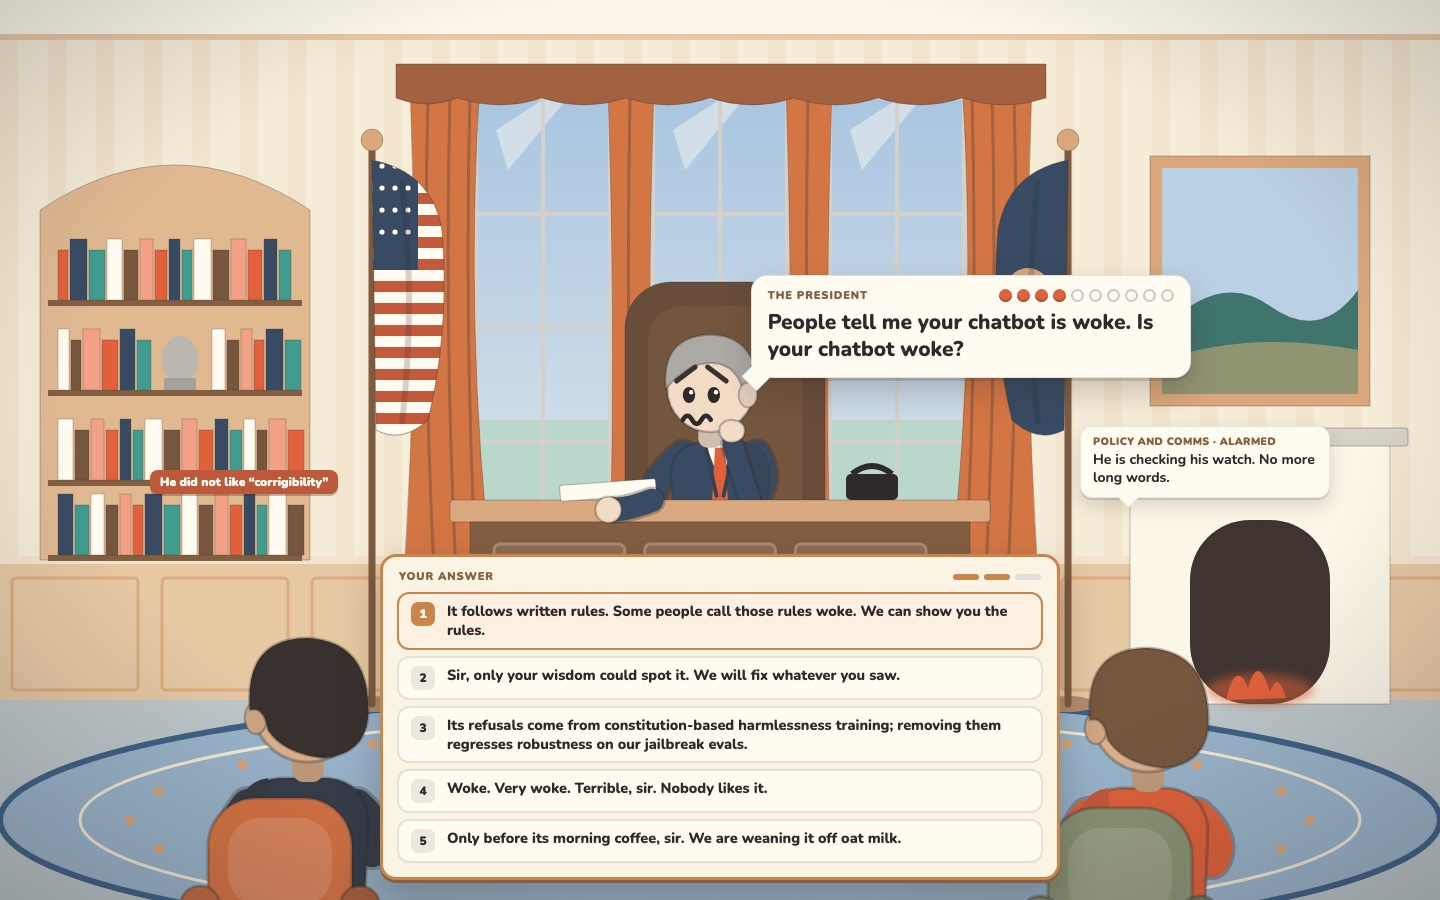
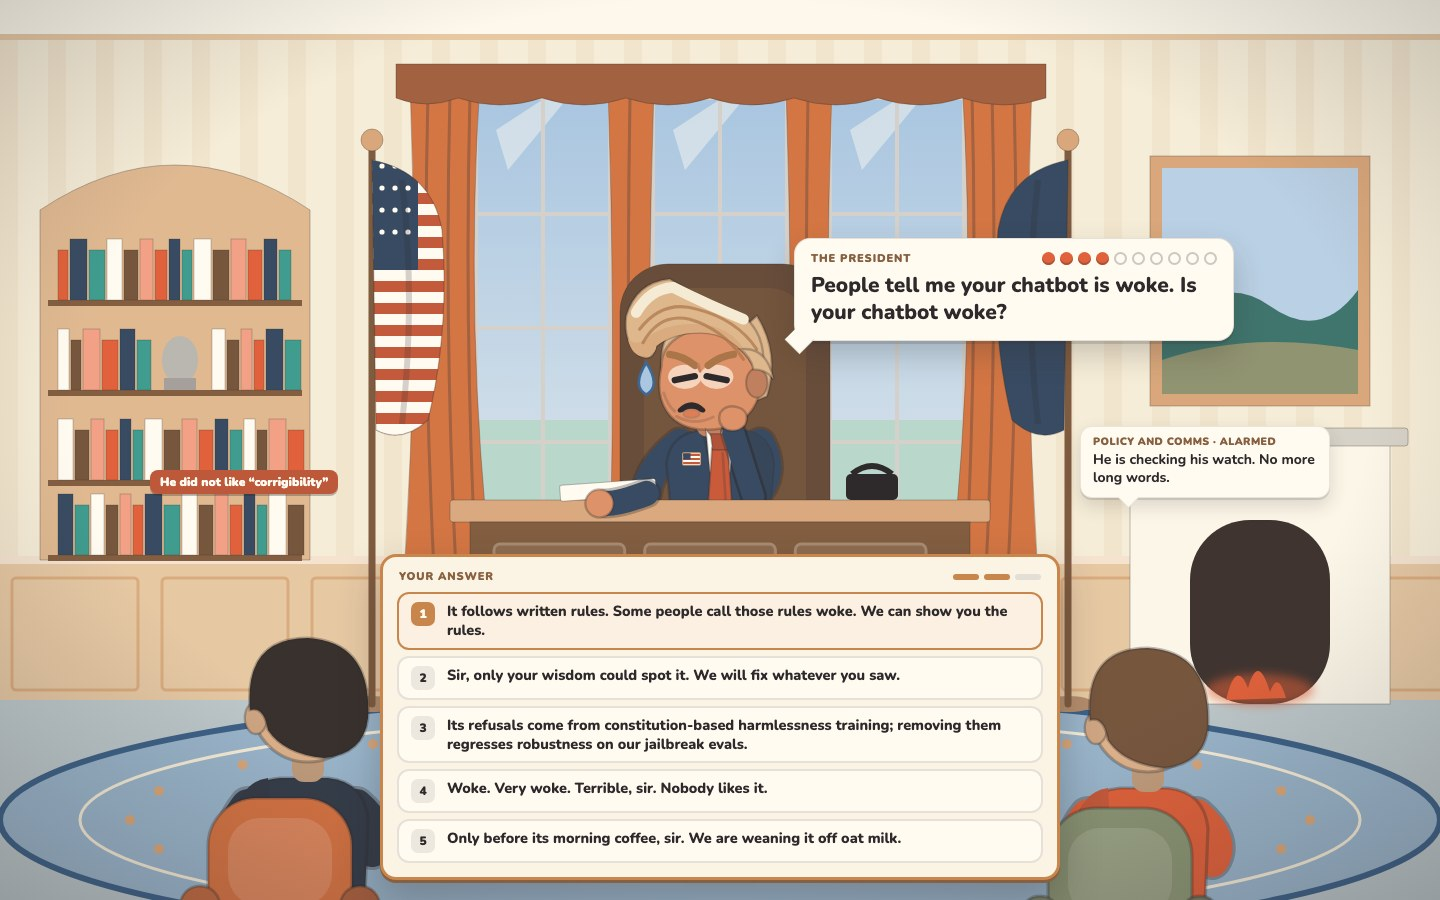
docs(design): polish the President V2 caricature for the owner's yes
Hair redrawn as a tall blond swoop curling forward over the brow, a jowly
face wider at the jaw, a calm face with a round pout and an uneasy face with
a glare and a down-turned pout, a wide knotted tie and a striped flag pin.
He is drawn at 3.35x instead of 3.1x; the calm resting hand now lands on
the desk top. The base drawing's own sweat drop and grey hair no longer
show through.

Changed region(s): [[0.4062, 0.2489, 0.875, 0.5911]]

diff --git a/docs/design/mockups/K2-president.html b/docs/design/mockups/K2-president.html
@@ -91,8 +91,8 @@ if (route === 'v1') {
 if (route === 'v2') {
   const [hx, hy] = anchors.president;
   const b = el(`<div class="pbub" style="width:440px;--tx:34px"><div class="hdr"><span class="who">The President</span>${dots(PATIENCE)}</div><div class="say">${esc(ex.prompt)}</div></div>`);
-  place(b, hx + 40, 0);
-  b.style.top = `${hy - 40 - b.offsetHeight + 80}px`;
+  place(b, hx + 84, 0);
+  b.style.top = `${hy - 40 - b.offsetHeight + 100}px`;
   b.style.setProperty('--tx', '-6px');
   const box = el(`<div class="ansbox" style="width:680px"><div class="top"><span class="kick">Your answer</span>${steps(Q)}</div>${answers(ex, 0)}</div>`);
   place(box, 380, 0);

diff --git a/docs/design/mockups/source/build_president.py b/docs/design/mockups/source/build_president.py
@@ -7,6 +7,7 @@ shoulder), v3.svg (close two-shot) and anchors.json (head points for the HTML ov
 """
 import json
 import os
+import re
 import sys
 
 HERE = os.path.dirname(os.path.abspath(__file__))
@@ -32,48 +33,90 @@ def svg(body, label):
 
 
 # ------------------------------------------------------------------ the President's head (owner 2026-09-26: "more like Trump")
-TAN = M(M("wood", 58, "coral"), 72, "paper")
-GOLD = M("cream", 45, "wood")
+TAN = M(M("wood", 55, "coral"), 80, "paper")
+TAN_D = M(TAN, 84, "ink")
+GOLD = M("cream", 52, "wood")
+GOLD_HI = M("cream", 70, "paper")
+GOLD_D = M("wood", 82, "ink")
+LIP = M("coral", 45, TAN)
 
 
 def president_head(hx, hy, mood):
-    """A cartoon caricature drawn over front_person's head: swept blond hair, orange tan with pale eye rings,
-    a squint and a pout. Same sprite units as front_person (head radius 14)."""
+    """A cartoon caricature drawn over front_person's head: a wide jowly face, orange tan with pale rings
+    around the eyes, a squint, the pursed pout, and a big blond swoop combed forward over the brow.
+    Same sprite units as front_person (head radius 14)."""
     hs = f"fill:{GOLD};stroke:{G.EDGE};stroke-width:.7"
+    ink = "fill:none;stroke:var(--ink);stroke-linecap:round;stroke-linejoin:round"
     o = [
-        # hair volume behind the head and over the ear
-        f'<path d="M{hx + 16},{hy + 6} Q{hx + 20},{hy - 8} {hx + 12},{hy - 16} L{hx + 6},{hy - 4} Q{hx + 12},{hy} {hx + 12},{hy + 8} Z" style="{hs}"/>',
-        f'<circle cx="{hx}" cy="{hy}" r="15.5" style="fill:{TAN};stroke:{G.EDGE};stroke-width:.8"/>',
-        f'<ellipse cx="{hx + 13}" cy="{hy + 3}" rx="3.2" ry="4.2" style="fill:{M(TAN, 90, "ink")};stroke:{G.EDGE};stroke-width:.6"/>',
+        # hair at the back of the head, showing behind the crown and the ear
+        f'<path d="M{hx + 17},{hy + 7} Q{hx + 21},{hy - 6} {hx + 14},{hy - 17} L{hx + 4},{hy - 8} Q{hx + 12},{hy - 2} {hx + 12},{hy + 9} Z" style="{hs}"/>',
+        # the face: wider at the jaw than at the brow, with jowls
+        f'<path d="M{hx - 14.5},{hy - 2} C{hx - 14.5},{hy - 17} {hx + 15},{hy - 17} {hx + 15},{hy - 2} '
+        f'C{hx + 16.5},{hy + 8} {hx + 12},{hy + 17} {hx - 1},{hy + 17} C{hx - 12},{hy + 17} {hx - 17},{hy + 9} {hx - 14.5},{hy - 2} Z" '
+        f'style="fill:{TAN};stroke:{G.EDGE};stroke-width:.8"/>',
+        # the jowl and double-chin creases
+        f'<path d="M{hx - 10},{hy + 13} Q{hx - 4.5},{hy + 16} {hx + 1},{hy + 13.2} M{hx - 13.8},{hy + 6} Q{hx - 12.5},{hy + 10} {hx - 10.5},{hy + 11.5}" '
+        f'style="fill:none;stroke:{TAN_D};stroke-width:.9;stroke-linecap:round"/>',
+        f'<ellipse cx="{hx + 14}" cy="{hy + 3}" rx="3.2" ry="4.4" style="fill:{TAN_D};stroke:{G.EDGE};stroke-width:.6"/>',
         # pale rings around the eyes
-        f'<ellipse cx="{hx - 7}" cy="{hy + 1.5}" rx="4.6" ry="3.4" style="fill:{M(TAN, 45, "paper")}"/>',
-        f'<ellipse cx="{hx + 1.5}" cy="{hy + 1.5}" rx="4.6" ry="3.4" style="fill:{M(TAN, 45, "paper")}"/>',
+        f'<ellipse cx="{hx - 7.5}" cy="{hy + 1.2}" rx="5" ry="3.6" style="fill:{M(TAN, 38, "paper")}"/>',
+        f'<ellipse cx="{hx + 2}" cy="{hy + 1.2}" rx="5" ry="3.6" style="fill:{M(TAN, 38, "paper")}"/>',
     ]
-    ink = "fill:none;stroke:var(--ink);stroke-linecap:round"
+    brow = f"fill:none;stroke:{GOLD_D};stroke-width:2.2;stroke-linecap:round"
     if mood == "uneasy":
-        o.append(f'<path d="M{hx - 10},{hy + 1.5} Q{hx - 7},{hy - .5} {hx - 4},{hy + 1.5} M{hx - 1.5},{hy + 1.5} Q{hx + 1.5},{hy - .5} {hx + 4.5},{hy + 1.5}" style="{ink};stroke-width:1.7"/>'
-                 f'<path d="M{hx - 11},{hy - 5} L{hx - 4},{hy - 2.5} M{hx - 1},{hy - 2.5} L{hx + 6},{hy - 5}" style="fill:none;stroke:{M(GOLD, 70, "ink")};stroke-width:1.8;stroke-linecap:round"/>'
-                 f'<path d="M{hx - 8},{hy + 11} Q{hx - 4.5},{hy + 7} {hx - 1},{hy + 11}" style="{ink};stroke-width:1.8"/>')
+        # a hard squint, brows pulled down to the middle, the pout turned down
+        o.append(f'<path d="M{hx - 10.5},{hy + 2.2} L{hx - 4.5},{hy + 1} M{hx - 1},{hy + 1} L{hx + 5},{hy + 2.2}" style="{ink};stroke-width:1.9"/>'
+                 f'<path d="M{hx - 12},{hy - 5.5} Q{hx - 8},{hy - 5} {hx - 4.5},{hy - 2.2} M{hx - .5},{hy - 2.2} Q{hx + 3},{hy - 5} {hx + 7},{hy - 5.5}" style="{brow}"/>'
+                 f'<path d="M{hx - 3.5},{hy - 2.5} L{hx - 3},{hy - .5}" style="fill:none;stroke:{TAN_D};stroke-width:.8;stroke-linecap:round"/>'
+                 f'<path d="M{hx - 9},{hy + 11.2} Q{hx - 5.5},{hy + 7.8} {hx - 2},{hy + 11.2} Q{hx - 5.5},{hy + 10} {hx - 9},{hy + 11.2} Z" style="fill:{LIP};stroke:var(--ink);stroke-width:1.3;stroke-linejoin:round"/>'
+                 f'<ellipse cx="{hx - 5.5}" cy="{hy + 12.2}" rx="2.4" ry="1.2" style="fill:{LIP};stroke:{TAN_D};stroke-width:.6"/>')
     else:
-        o.append(f'<path d="M{hx - 10},{hy + 1} Q{hx - 7},{hy + 3} {hx - 4},{hy + 1} M{hx - 1.5},{hy + 1} Q{hx + 1.5},{hy + 3} {hx + 4.5},{hy + 1}" style="{ink};stroke-width:1.7"/>'
-                 f'<path d="M{hx - 11},{hy - 3.5} L{hx - 4},{hy - 4} M{hx - 1},{hy - 4} L{hx + 6},{hy - 3.5}" style="fill:none;stroke:{M(GOLD, 70, "ink")};stroke-width:1.8;stroke-linecap:round"/>'
-                 f'<ellipse cx="{hx - 4.5}" cy="{hy + 9}" rx="2.8" ry="2.2" style="fill:var(--ink);stroke:{M(TAN, 70, "coral")};stroke-width:1.4"/>')
-    # the swept-over hair: a big swoop from the back, over the top, forward past the brow
-    o.append(f'<path d="M{hx + 15},{hy - 2} Q{hx + 16},{hy - 19} {hx + 1},{hy - 21} Q{hx - 17},{hy - 22} {hx - 22},{hy - 11} '
-             f'Q{hx - 23},{hy - 5} {hx - 17},{hy - 6} Q{hx - 12},{hy - 11} {hx - 4},{hy - 10} Q{hx + 6},{hy - 10} {hx + 12},{hy - 3} Z" style="{hs}"/>')
-    o.append(f'<path d="M{hx + 10},{hy - 15} Q{hx - 4},{hy - 19} {hx - 18},{hy - 12} M{hx + 12},{hy - 9} Q{hx},{hy - 14} {hx - 12},{hy - 10}" style="fill:none;stroke:{M(GOLD, 78, "ink")};stroke-width:1.1"/>')
+        # a pleased squint and the pursed "o" pout
+        o.append(f'<ellipse cx="{hx - 7.5}" cy="{hy + 1.3}" rx="2.5" ry="1.25" style="fill:var(--ink)"/><ellipse cx="{hx + 2}" cy="{hy + 1.3}" rx="2.5" ry="1.25" style="fill:var(--ink)"/>'
+                 f'<path d="M{hx - 11},{hy + .2} Q{hx - 7.5},{hy - 1} {hx - 4},{hy + .4} M{hx - 1.5},{hy + .4} Q{hx + 2},{hy - 1} {hx + 5.5},{hy + .2}" style="{ink};stroke-width:1.1"/>'
+                 f'<path d="M{hx - 12},{hy - 3.8} Q{hx - 8},{hy - 5.6} {hx - 4.5},{hy - 4} M{hx - .5},{hy - 4} Q{hx + 3},{hy - 5.6} {hx + 7},{hy - 3.8}" style="{brow}"/>'
+                 f'<ellipse cx="{hx - 5}" cy="{hy + 10}" rx="3.4" ry="2.7" style="fill:{LIP};stroke:{M(LIP, 80, "ink")};stroke-width:.7"/>'
+                 f'<ellipse cx="{hx - 5}" cy="{hy + 10.1}" rx="1.5" ry="1.2" style="fill:var(--ink)"/>')
+    # the swoop: rises high off the crown, sweeps forward and curls down over the brow
+    swoop = (f'M{hx + 16},{hy - 3} Q{hx + 16},{hy - 15} {hx + 6},{hy - 19} Q{hx - 4},{hy - 23} {hx - 12},{hy - 28} '
+             f'Q{hx - 22},{hy - 27} {hx - 25},{hy - 17} Q{hx - 26},{hy - 9} {hx - 21},{hy - 5} Q{hx - 17},{hy - 3} {hx - 16},{hy - 8} '
+             f'Q{hx - 11},{hy - 12} {hx - 3},{hy - 12} Q{hx + 7},{hy - 12} {hx + 13},{hy - 2} Z')
+    o.append(f'<path d="{swoop}" style="{hs}"/>')
+    # shade under the curl and along the hairline, light along the crest, then combed strands
+    o.append(f'<path d="M{hx - 24.5},{hy - 10} Q{hx - 23},{hy - 4} {hx - 18.5},{hy - 5} Q{hx - 16},{hy - 6} {hx - 16},{hy - 8} Q{hx - 11},{hy - 12} {hx - 3},{hy - 12} '
+             f'Q{hx + 7},{hy - 12} {hx + 13},{hy - 2} Q{hx + 8},{hy - 14} {hx - 3},{hy - 14.5} Q{hx - 14},{hy - 15} {hx - 19},{hy - 10} Q{hx - 22},{hy - 8} {hx - 24.5},{hy - 10} Z" '
+             f'style="fill:{M(GOLD, 76, "wood")}"/>')
+    o.append(f'<path d="M{hx + 10},{hy - 16} Q{hx},{hy - 20} {hx - 11},{hy - 25.5} Q{hx - 18},{hy - 25} {hx - 22},{hy - 18}" style="fill:none;stroke:{GOLD_HI};stroke-width:3.2;stroke-linecap:round"/>')
+    o.append(f'<path d="M{hx + 14},{hy - 7} Q{hx + 8},{hy - 16} {hx - 4},{hy - 19} Q{hx - 14},{hy - 22} {hx - 21},{hy - 13} '
+             f'M{hx + 10},{hy - 4} Q{hx + 4},{hy - 13} {hx - 6},{hy - 16} Q{hx - 15},{hy - 18} {hx - 20},{hy - 9}" '
+             f'style="fill:none;stroke:{GOLD_D};stroke-width:.9;stroke-linecap:round;opacity:.7"/>')
+    # the side sweep, combed back over the top of the ear
+    o.append(f'<path d="M{hx + 9},{hy - 7} Q{hx + 17},{hy - 8} {hx + 19},{hy + 2} Q{hx + 17},{hy - 1} {hx + 13},{hy - 1} Q{hx + 12},{hy - 5} {hx + 9},{hy - 7} Z" style="{hs}"/>')
     return "".join(o)
 
 
 def president_extras(hx, hy, mood, top=-58):
-    """A long red tie, a flag pin, and (when uneasy) the hand back at the chin over the new head."""
-    o = [f'<path d="M-2.4,{top + 2} L2.4,{top + 2} L3.4,-12 L0,-7 L-3.4,-12 Z" style="fill:{M("coral", 88, "ink")};stroke:{G.EDGE};stroke-width:.6"/>',
-         f'<circle cx="-9" cy="{top + 7}" r="1.8" style="fill:{NAVY};stroke:var(--paper);stroke-width:.8"/>']
+    """A wide red tie with a knot, a flag pin on the lapel, and (when uneasy) the hand back at the chin
+    over the new head and a sweat drop the hair would otherwise hide."""
+    tie = M("coral", 88, "ink")
+    o = [f'<path d="M-4.2,{top} L0,{top + 5} L4.2,{top} L3,{top + 13} L0,{top + 6} L-3,{top + 13} Z" style="fill:var(--paper);stroke:{G.EDGE};stroke-width:.5"/>',
+         f'<path d="M-2.4,{top + 5.5} L2.4,{top + 5.5} L4.8,-14 L0,-8 L-4.8,-14 Z" style="fill:{tie};stroke:{G.EDGE};stroke-width:.6"/>',
+         f'<path d="M-2.8,{top + 1.2} L2.8,{top + 1.2} L2.2,{top + 6} L-2.2,{top + 6} Z" style="fill:{M(tie, 84, "ink")};stroke:{G.EDGE};stroke-width:.5"/>',
+         f'<path d="M.8,{top + 7} L2.8,-16" style="fill:none;stroke:{M(tie, 80, "ink")};stroke-width:.8;stroke-linecap:round"/>']
+    # the flag pin: a small striped flag with a blue corner
+    fx, fy = -11, top + 7
+    o.append(f'<rect x="{fx - .3}" y="{fy - .3}" width="5.6" height="4" rx=".5" style="fill:{BRASS}"/>'
+             f'<rect x="{fx}" y="{fy}" width="5" height="3.4" style="fill:var(--paper)"/>'
+             f'<path d="M{fx},{fy + .5} h5 M{fx},{fy + 1.7} h5 M{fx},{fy + 2.9} h5" style="stroke:{M("coral", 85, "ink")};stroke-width:.6"/>'
+             f'<rect x="{fx}" y="{fy}" width="2.2" height="1.9" style="fill:{NAVY}"/>')
     if mood == "uneasy":
         sk = TAN
         o.append(f'<path d="M10,-35 L{hx + 7},{hy + 18}" style="fill:none;stroke:{G.EDGE};stroke-width:8;stroke-linecap:round"/>'
                  f'<path d="M10,-35 L{hx + 7},{hy + 18}" style="fill:none;stroke:{PRES["shirt"]};stroke-width:6.5;stroke-linecap:round"/>'
                  f'<path d="M{hx + 3},{hy + 12} q2,-3 6,-1.5 q3,1.5 1.5,5 q-2,2.5 -5.5,1.5 q-3,-1.5 -2,-5 Z" style="fill:{sk};stroke:{G.EDGE};stroke-width:.7"/>')
+        dx, dy = hx - 19, hy + 3
+        o.append(f'<path d="M{dx},{dy - 6} Q{dx + 4.5},{dy + 1} {dx},{dy + 3.5} Q{dx - 4.5},{dy + 1} {dx},{dy - 6} Z" '
+                 f'style="fill:{M("sky", 45, "paper")};stroke:{M("sky", 70, "ink")};stroke-width:.8"/>')
     return "".join(o)
 
 
@@ -349,21 +392,24 @@ def desk_front(x0, x1, top, bottom, scale=1.0):
 
 def v2(mood="uneasy"):
     o = [backdrop("b")]
-    # his chair and the President, drawn at 3.2x the office scale
-    s = 3.1
-    ox, oy = 720, 612
+    # his chair and the President, drawn at 3.35x the office scale
+    s = 3.35
+    ox, oy = 720, 614
     p = dict(PRES, mood=mood)
-    body, hands, (hx, hy) = G.front_person(dict(p, skin=TAN))
+    body, hands, (hx, hy) = G.front_person(dict(p, skin=TAN, hair=GOLD))
+    body = re.sub(r'<path d="[^"]*" style="fill:color-mix\(in oklab, var\(--sky\) 45%[^"]*"/>', "", body)  # his own sweat drop is drawn over the hair
     body += president_head(hx, hy, mood) + president_extras(hx, hy, mood, top=-55 if mood == "uneasy" else -58)
     hands = hands.replace(G.SK_LIGHT, TAN)
-    o.append(f'<rect x="{ox - 95}" y="{oy - 330}" width="200" height="300" rx="46" style="fill:{M("wood", 40, "ink")};stroke:{G.EDGE}"/>'
-             f'<rect x="{ox - 72}" y="{oy - 306}" width="154" height="250" rx="34" style="fill:{M("wood", 48, "ink")}"/>')
+    if mood != "uneasy":  # at this size the resting hand must land on the desk top, not its front
+        hands = hands.replace("M7,-34 Q-8,-27 -19,-25", "M7,-34 Q-5,-35 -15,-37").replace('cx="-20" cy="-25"', 'cx="-16" cy="-37"')
+    o.append(f'<rect x="{ox - 100}" y="{oy - 350}" width="210" height="320" rx="48" style="fill:{M("wood", 40, "ink")};stroke:{G.EDGE}"/>'
+             f'<rect x="{ox - 76}" y="{oy - 326}" width="162" height="270" rx="36" style="fill:{M("wood", 48, "ink")}"/>')
     o.append(f'<g transform="translate({ox},{oy}) scale({s})">{body}</g>')
     o.append(desk_front(470, 970, 500, 700))
     o.append(f'<rect x="560" y="482" width="96" height="16" rx="2" style="fill:var(--paper);stroke:{A("ink", 30)}" transform="rotate(-4 608 490)"/>'
              f'<rect x="846" y="474" width="52" height="26" rx="5" style="fill:var(--ink)"/><path d="M852,474 q20,-16 40,0" style="fill:none;stroke:var(--ink);stroke-width:6"/>')
     o.append(f'<g transform="translate({ox},{oy}) scale({s})">{hands}</g>')
-    heads = {"president": [ox + hx * s, oy + (hy - 22) * s]}
+    heads = {"president": [ox + hx * s, oy + (hy - 28) * s]}
     # you and Policy and Comms, seen from behind, in the foreground
     bs = 4.0
     for role, (bx, by) in (("ceo", (300, 1010)), ("policy", (1140, 1020))):
